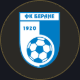
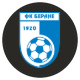
Escudos circulares y sin flechas en la línea de tiempo de Fernando Rueda
- Recortes de Fratria y Berane con máscara circular para que no se vea el cuadrado
- Ocultar flechas de la barra de scroll

diff --git a/src/app/components/fernando/fernando-timeline.css b/src/app/components/fernando/fernando-timeline.css
@@ -8,6 +8,12 @@
   height: 3px;
 }
 
+.fr-timeline-scroll::-webkit-scrollbar-button {
+  display: none;
+  width: 0;
+  height: 0;
+}
+
 .fr-timeline-scroll::-webkit-scrollbar-track {
   background: rgba(240, 237, 232, 0.08);
   border-radius: 2px;
